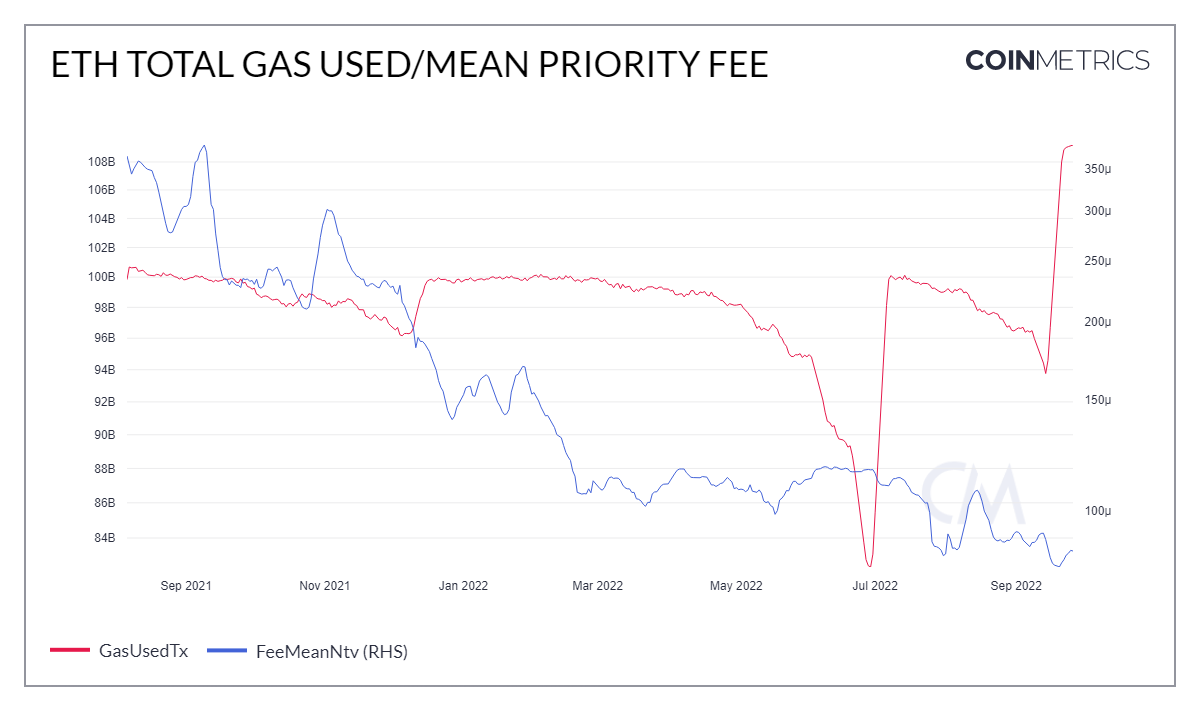
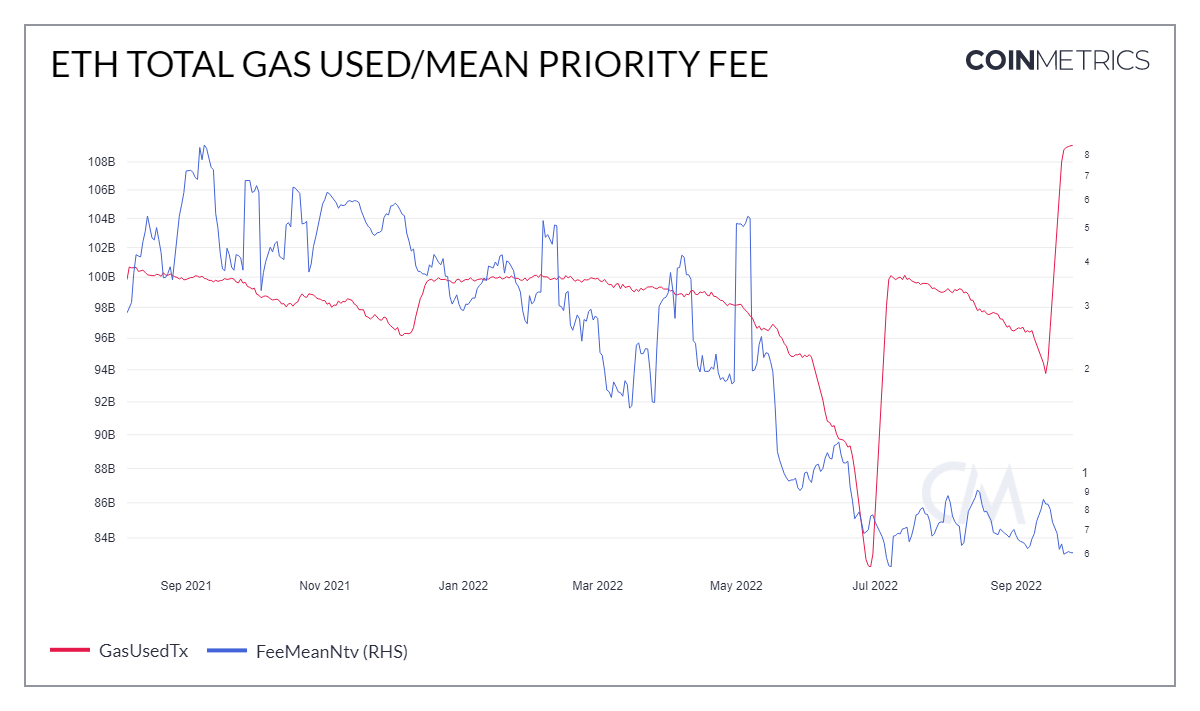
GitBook: [#679] update from knowledge base sheet - BlkWghtMean

diff --git a/asset-metrics/network-usage/blkwghtmean.md b/asset-metrics/network-usage/blkwghtmean.md
@@ -4,6 +4,8 @@
 
 The mean weight of all blocks created that interval. Weight is a dimensionless measure of a block’s “size”. It is only applicable for chains that use SegWit (segregated witness).
 
+## Dictionary
+
 | Name              | MetricID    | Category      | Subcategory | Type | Unit          | Interval |
 | ----------------- | ----------- | ------------- | ----------- | ---- | ------------- | -------- |
 | Mean Block Weight | BlkWghtMean | Network Usage | Blocks      | Mean | Dimensionless | 1 day    |
@@ -12,6 +14,10 @@ The mean weight of all blocks created that interval. Weight is a dimensionless m
 
 * Only mainchain (non-orphaned/uncles) blocks are counted.
 * For chains that use median time, the day is defined using it, otherwise, it’s defined using the block’s timestamps.
+
+## Chart
+
+<figure><img src="../../.gitbook/assets/Mean_Block_Weight.png" alt=""><figcaption><p>Source: <a href="https://charts.coinmetrics.io/network-data/#4251">CM Network Data Charts</a></p></figcaption></figure>
 
 ## Asset-Specific Details
 
@@ -24,6 +30,10 @@ The mean weight of all blocks created that interval. Weight is a dimensionless m
 ## Interpretation
 
 Block weight is useful to determine how used a chain is. If the mean block weight is close to the maximum block weight possible, then the chain is close to 100% utilization.
+
+## See Also
+
+* [Sum Block Weight](https://docs.coinmetrics.io/asset-metrics/network-usage/blkwghttot?q=Sum+Block+Weight)
 
 ## Availability for Assets
 

diff --git a/asset-metrics/network-usage/blkwghttot.md b/asset-metrics/network-usage/blkwghttot.md
@@ -2,7 +2,9 @@
 
 ## Definition
 
-The mean weight of all blocks created that interval. Weight is a dimensionless measure of a block’s “size”. It is only applicable for chains that use SegWit (segregated witness).
+The sum weight of all blocks created that interval. Weight is a dimensionless measure of a block’s “size”. It is only applicable for chains that use SegWit (segregated witness).
+
+## Dictionary
 
 | Name             | MetricID   | Category      | Subcategory | Type | Unit          | Interval |
 | ---------------- | ---------- | ------------- | ----------- | ---- | ------------- | -------- |
@@ -12,6 +14,10 @@ The mean weight of all blocks created that interval. Weight is a dimensionless m
 
 * Only mainchain (non-orphaned/uncles) blocks are counted.
 * For chains that use median time, the day is defined using it, otherwise, it’s defined using the block’s timestamps.
+
+## Chart
+
+<figure><img src="../../.gitbook/assets/Sum_Block_Weight.png" alt=""><figcaption><p>Source: <a href="https://charts.coinmetrics.io/network-data/#4254">CM Network Data Charts</a></p></figcaption></figure>
 
 ## Asset-Specific Details
 
@@ -24,6 +30,10 @@ The mean weight of all blocks created that interval. Weight is a dimensionless m
 ## Interpretation
 
 Block weight is useful to determine how used a chain is.
+
+## See Also
+
+* [Mean Block Weight](https://docs.coinmetrics.io/asset-metrics/network-usage/blkwghtmean)
 
 ## Availability for Assets
 

diff --git a/asset-metrics/fees-and-revenue/feepriomeanusd.md b/asset-metrics/fees-and-revenue/feepriomeanusd.md
@@ -22,7 +22,7 @@ Ethereum post-1559 requires users to pay for a Base Fee as a prerequisite to inc
 
 ## Chart
 
-<figure><img src="../../.gitbook/assets/ETH_Total_Gas_Used_Mean_Priority_Fee (1) (1).png" alt=""><figcaption></figcaption></figure>
+<figure><img src="../../.gitbook/assets/ETH_Total_Gas_Used_Mean_Priority_Fee (1).png" alt=""><figcaption></figcaption></figure>
 
 ## Asset-Specific Details
 

diff --git a/asset-metrics/fees-and-revenue/feepriomeanntv.md b/asset-metrics/fees-and-revenue/feepriomeanntv.md
@@ -22,7 +22,7 @@ Ethereum post-1559 requires users to pay for a Base Fee as a prerequisite to inc
 
 ## Chart
 
-<figure><img src="../../.gitbook/assets/ETH_Total_Gas_Used_Mean_Priority_Fee.png" alt=""><figcaption></figcaption></figure>
+<figure><img src="../../.gitbook/assets/ETH_Total_Gas_Used_Mean_Priority_Fee (2).png" alt=""><figcaption></figcaption></figure>
 
 
 
